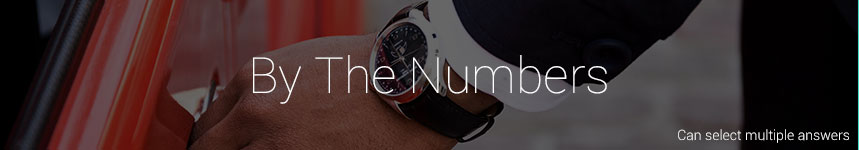
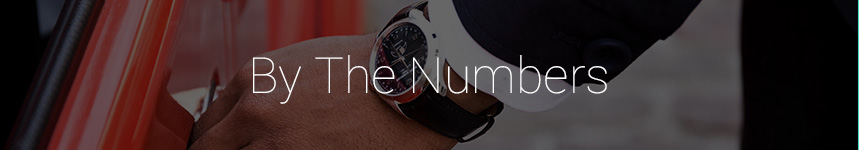
replace 'by the numbers' image. changed one of the questions to single select.

Changed region(s): [[0.787, 0.8533, 0.9988, 0.9333]]

diff --git a/index-us.html b/index-us.html
@@ -436,7 +436,7 @@
 
                         <p class="rob_light"><span class="q_num">10</span> What is your favourite style of watch ? </p>
 
-                        <div class="slider_circles radio">
+                        <div class="slider_circles radio slt_single">
                             <div class="radio_btn"><a href="#_" data-num="1"></a><p>Classic</p></div>
                             <div class="radio_btn"><a href="#_" data-num="2"></a><p>Fashion watch</p></div>
                             <div class="radio_btn"><a href="#_" data-num="3"></a><p>Sports watch</p></div>

diff --git a/index-au.html b/index-au.html
@@ -438,7 +438,7 @@
 
                         <p class="rob_light"><span class="q_num">10</span> What is your favourite type of watch ? </p>
 
-                        <div class="slider_circles radio">
+                        <div class="slider_circles radio slt_single">
                             <div class="radio_btn"><a href="#_" data-num="1"></a><p>Classic</p></div>
                             <div class="radio_btn"><a href="#_" data-num="2"></a><p>Fashion watch</p></div>
                             <div class="radio_btn"><a href="#_" data-num="3"></a><p>Sports watch</p></div>

diff --git a/index-uk.html b/index-uk.html
@@ -436,7 +436,7 @@
 
                         <p class="rob_light"><span class="q_num">10</span> What is your favourite type of watch ? </p>
 
-                        <div class="slider_circles radio">
+                        <div class="slider_circles radio slt_single">
                             <div class="radio_btn"><a href="#_" data-num="1"></a><p>Classic</p></div>
                             <div class="radio_btn"><a href="#_" data-num="2"></a><p>Fashion watch</p></div>
                             <div class="radio_btn"><a href="#_" data-num="3"></a><p>Sports watch</p></div>
